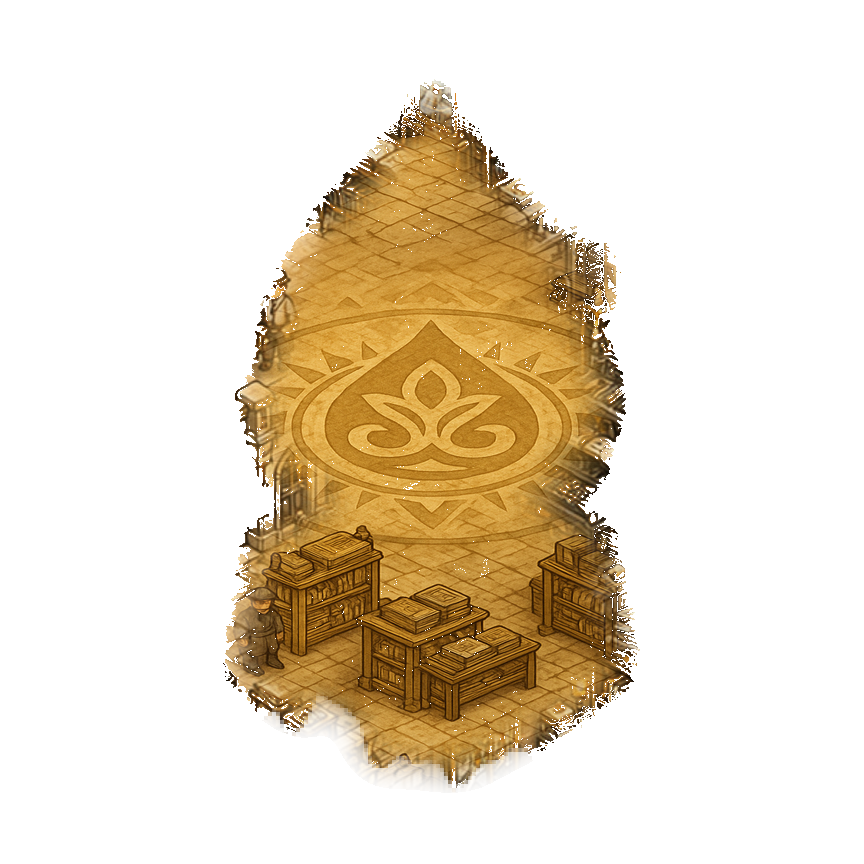
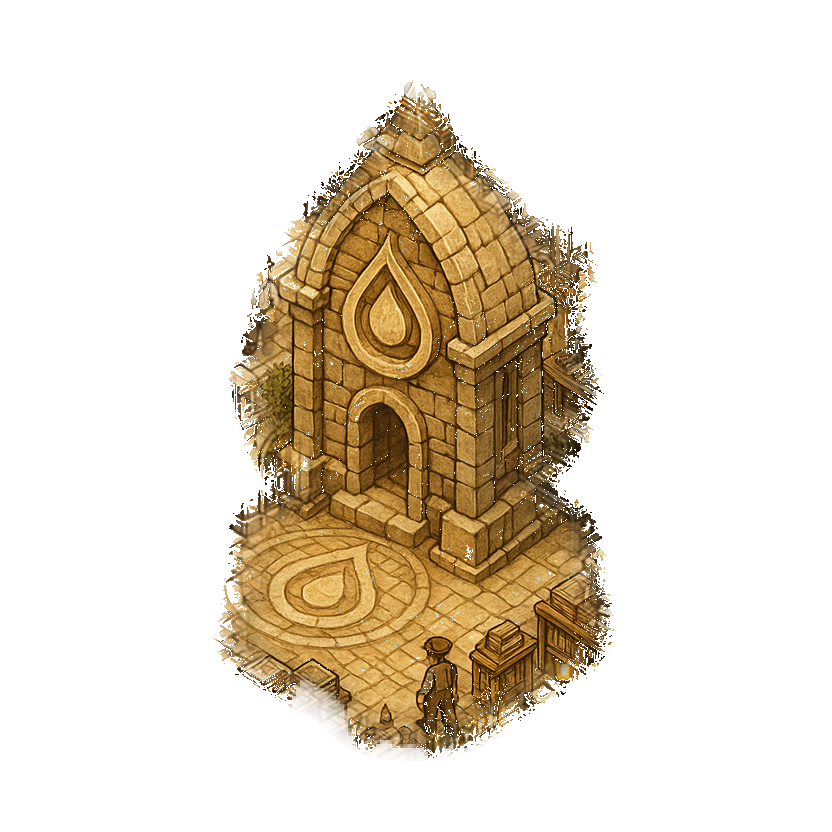
feat: refresh repaint art and move tourism kiosk
- tighten repaint prompts toward built landmark replacements
- lock in refreshed glyph halo art and appearance manifest updates
- move the Department of Tourism outside the town edge

Changed region(s): [[0.25, 0.0938, 0.75, 0.9062]]

diff --git a/lib/glyphHalo.ts b/lib/glyphHalo.ts
@@ -39,10 +39,13 @@ const GLYPH_HALO_OUTPUT_ROOT = "/art/town/glyph-halos";
 const GLYPH_HALO_DEFAULT_RADIAL_SCALE = 1.2;
 const GLYPH_HALO_DEFAULT_PADDING = 24;
 const GLYPH_HALO_DEFAULT_THRESHOLD = 10;
+const GLYPH_HALO_SPREAD_TIGHTENING = 0.7;
 const LEGACY_OPEN_CENTER_SENTENCE =
   /Keep the center composition open enough for the foreground .*?without doubling the silhouette\.\s*/;
 const BAKED_LANDMARK_SUFFIX =
   "The final accepted state hides the separate foreground sprite, so do not leave an empty center or a placeholder halo. Recreate the landmark itself directly in the painted scene so the site still reads clearly and stays clickable after the sprite disappears. Ground it into the district art with solid structure, readable silhouette, and materials that belong to the environment.";
+const ARCHITECTURAL_LANDMARK_SUFFIX =
+  "Favor compact 3D landmark reads over flat graphics: small building, monument, statue, shrine, kiosk, tower, gate, pavilion, or civic marker integrated into the scene. Avoid floor decals, medallions, painted sigils, logos, abstract symbols, or mural-only solutions.";
 
 function humanizeHaloIdentifier(value: string) {
   return value
@@ -55,7 +58,16 @@ function humanizeHaloIdentifier(value: string) {
 function defaultGlyphHaloDescription(sprite: SpriteLike) {
   const districtName = humanizeHaloIdentifier(sprite.district ?? "town");
   const stopName = humanizeHaloIdentifier(sprite.stopId);
-  return `Paint a native background integration layer for the ${stopName} glyph directly into the ${districtName} ground beneath it. Recreate the landmark itself as part of the painted environment so it feels built into the district art: subtle material spill, soft ambient light, grounded shadowing, local texture wear, and environmental details that match the whimsical town style. Match the surrounding ${districtName} palette, perspective, texture density, and lighting so it feels painted into the map rather than pasted on. No readable text, no logos, no UI, no stickers, no hard outline. ${BAKED_LANDMARK_SUFFIX}`;
+  return `Paint a native background integration layer for the ${stopName} glyph directly into the ${districtName} ground beneath it. Recreate the landmark itself as a compact building, monument, or statue that feels built into the district art: subtle material spill, soft ambient light, grounded shadowing, local texture wear, and environmental details that match the whimsical town style. Match the surrounding ${districtName} palette, perspective, texture density, and lighting so it feels painted into the map rather than pasted on. No readable text, no logos, no UI, no stickers, no hard outline. ${BAKED_LANDMARK_SUFFIX} ${ARCHITECTURAL_LANDMARK_SUFFIX}`;
+}
+
+function tightenGlyphHaloSpread(radialScale: number) {
+  if (radialScale <= 1) {
+    return 1;
+  }
+
+  // Keep the same base halo shape, but pull the extra spread back by 30%.
+  return 1 + (radialScale - 1) * GLYPH_HALO_SPREAD_TIGHTENING;
 }
 
 export function glyphHaloPromptForSprite(sprite: SpriteLike): string | null {
@@ -79,6 +91,10 @@ export function glyphHaloPromptForSprite(sprite: SpriteLike): string | null {
     prompt = `${prompt} ${BAKED_LANDMARK_SUFFIX}`.trim();
   }
 
+  if (!prompt.includes("Favor compact 3D landmark reads over flat graphics")) {
+    prompt = `${prompt} ${ARCHITECTURAL_LANDMARK_SUFFIX}`.trim();
+  }
+
   return prompt;
 }
 
@@ -95,9 +111,13 @@ export function glyphHaloConfigForSprite(
 }
 
 export function glyphHaloRadialScaleForSprite(sprite: SpriteLike) {
-  return Math.max(
-    1,
-    Number(sprite.inpaintHalo?.radialScale ?? GLYPH_HALO_DEFAULT_RADIAL_SCALE),
+  return tightenGlyphHaloSpread(
+    Math.max(
+      1,
+      Number(
+        sprite.inpaintHalo?.radialScale ?? GLYPH_HALO_DEFAULT_RADIAL_SCALE,
+      ),
+    ),
   );
 }
 

diff --git a/components/DepartmentOfTourism.tsx b/components/DepartmentOfTourism.tsx
@@ -15,7 +15,7 @@ export function DepartmentOfTourism({ onActivate }: Props) {
 
   return (
     <g
-      transform="translate(815, 618)"
+      transform="translate(1370, 285)"
       style={{ cursor: "pointer" }}
       onMouseEnter={() => setHovered(true)}
       onMouseLeave={() => setHovered(false)}

diff --git a/STATUS.md b/STATUS.md
@@ -1,5 +1,21 @@
 # Status
 
+## Done (2026-05-28) — Department Of Tourism Moved Outside Town Near The Graveyard Coast
+
+- Moved the Department of Tourism landmark out of Town Square and onto the grass strip east of The Graveyard so it now sits outside the town edge near the marked coastal spot.
+- Validation: `./scripts/deploy_app.sh` rebuilt successfully and brought the updated preview back up on `http://127.0.0.1:3742/` with the repaint runner on `http://127.0.0.1:3743`.
+
+## Done (2026-05-28) — Repaint Prompt Now Favors Built Landmarks And Uses Tighter Spread
+
+- Tightened the shared repaint prompt so future generations bias toward compact buildings, statues, shrines, kiosks, gates, and other 3D landmark reads instead of flat floor symbols or mural-like overlays.
+- Pulled the effective inpaint spread back by about 30 percent at the shared halo-math layer, so the repaint footprint reaches less aggressively into the surrounding district art.
+- Validation: `node scripts/apply-town-glyph-halo.mjs --id=razer-ripple --dry-run` confirmed the new building/statue prompt wording, `radialScale: 1.14`, and tighter `haloRayPadding`; dry-run artifacts were removed; `sm swab -g overconfidence:type-blindness.js --json --output-file .slopmop/last_swab.json` passed with `all_passed: true`.
+
+## Done (2026-05-28) — Local Repaint Trail Is Ignored
+
+- Added repo ignore rules for the local repaint backup snapshots and append-only audit log so the branch stays clean after using the live repaint authoring flow.
+- Validation target is `git status --short`: the repaint trail should disappear from status once the new ignore rules are in place.
+
 ## Done (2026-05-28) — Replacement Repaints No Longer Draw A Marker On Top
 
 - Fixed the stage render path so a live preview or accepted replacement underlay now actually replaces the foreground marker instead of rendering underneath it. The old sprite is no longer drawn on top while reviewing or after acceptance.
